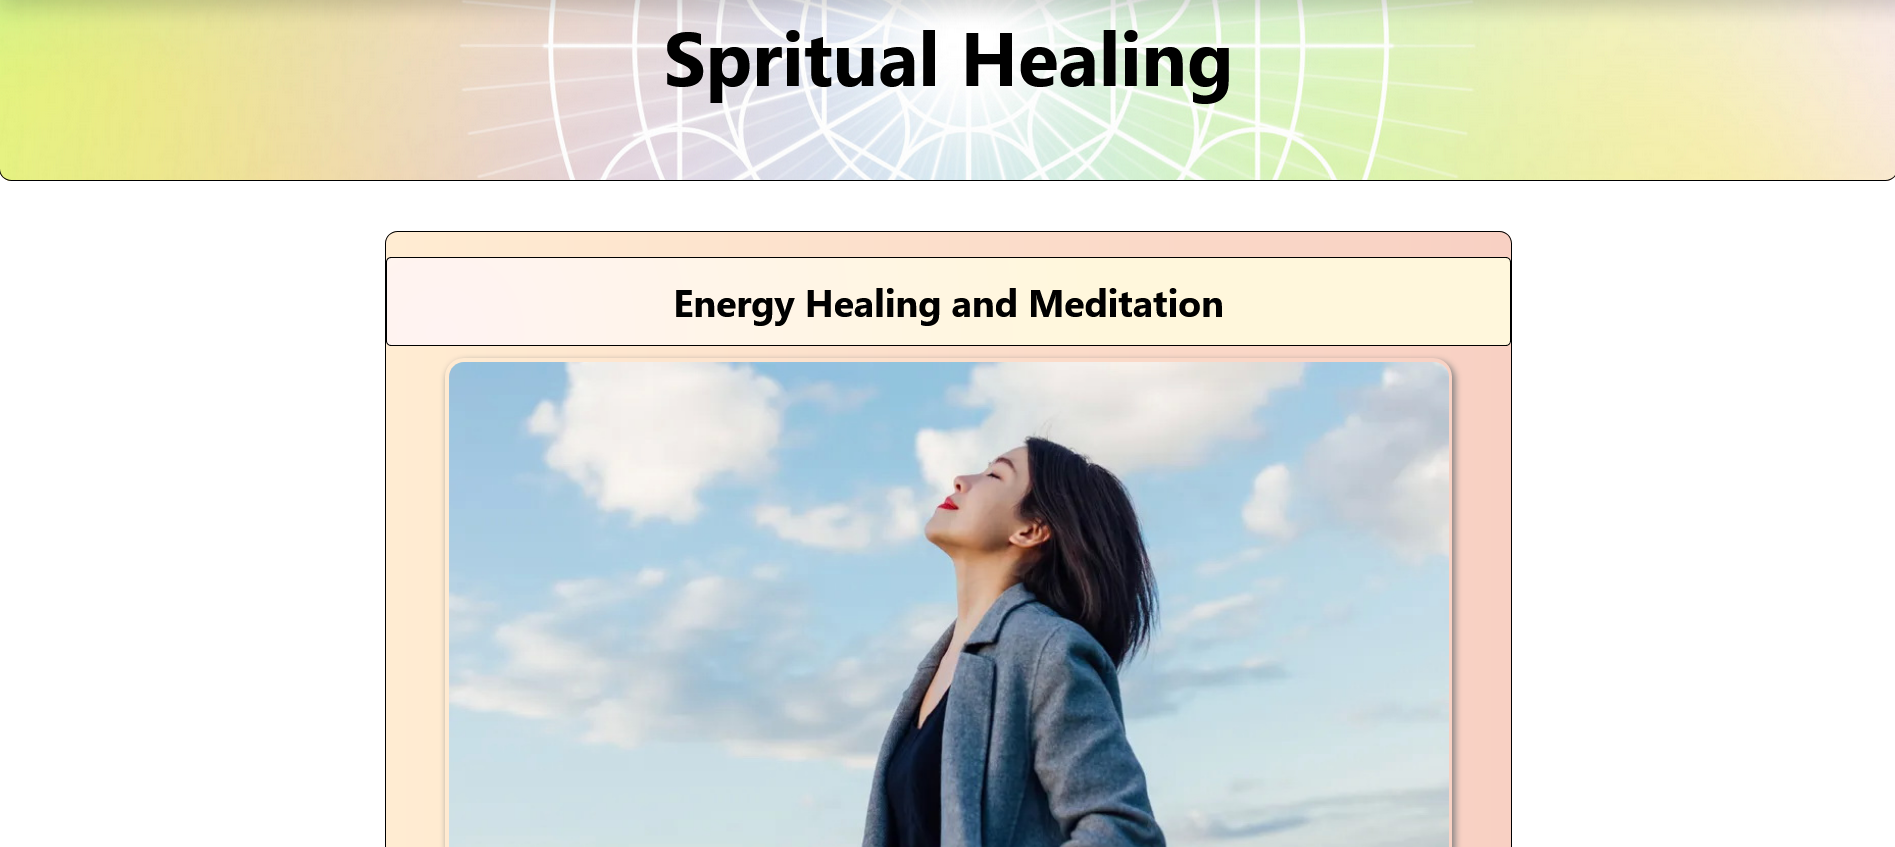
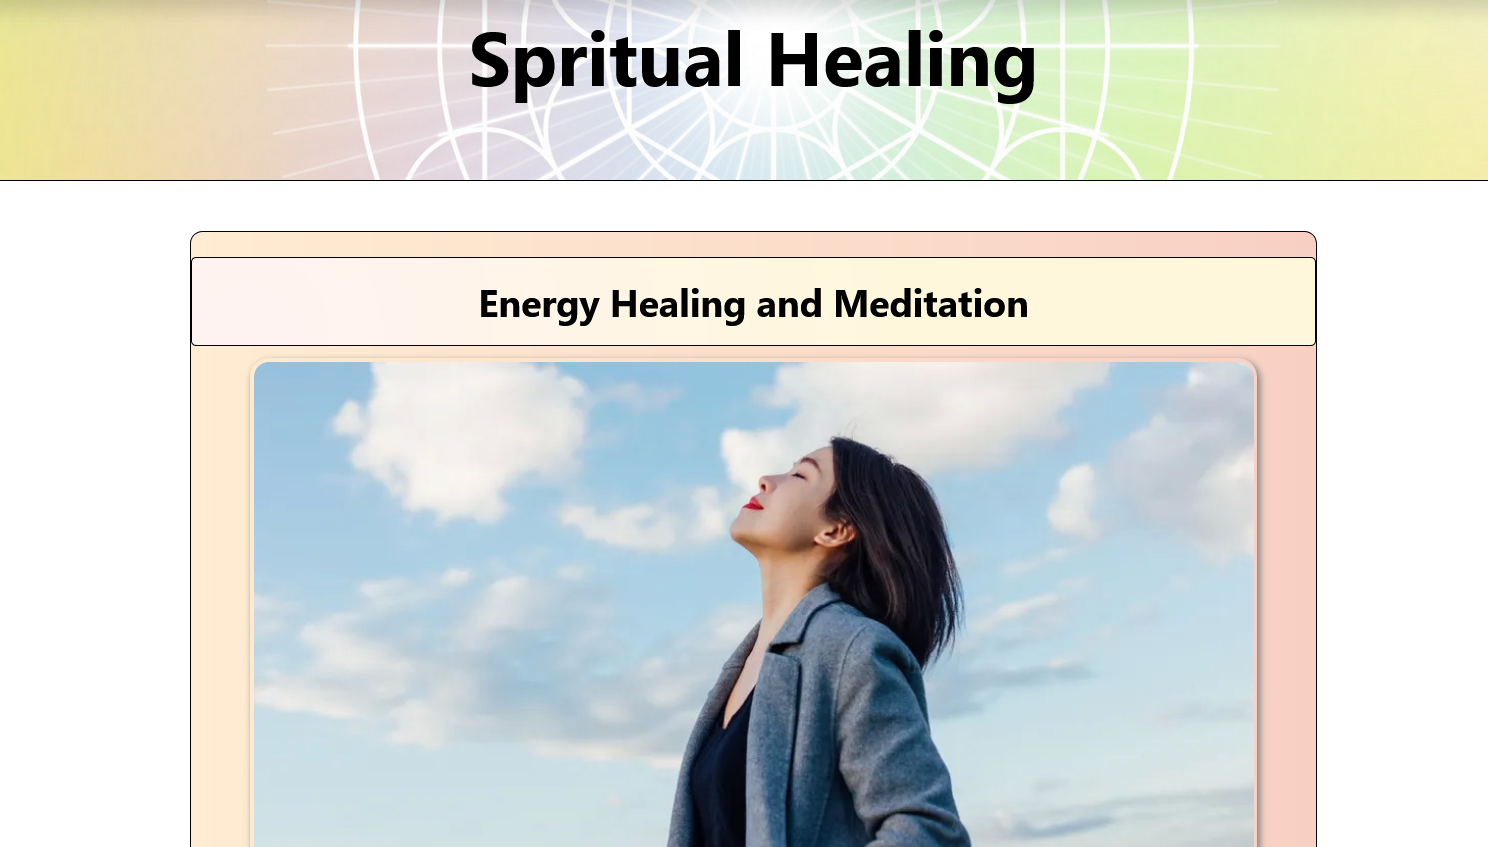
Added about section

diff --git a/index.html b/index.html
@@ -43,30 +43,92 @@
       <div class="about-section block">
         <h3 class="heading-titles">About</h3>
         <h2>Who is Niloofar?</h2>
-        <p>The info comes here</p>
+
+        <div class="container">
+          <div class="row">
+            <div class="col mt-5 text-muted">
+              <div class="project-description">
+                Hi! I am Niloofar and I am a newbie Front-End Developer. I'm
+                very passionate about bringing both the technical and visual
+                aspects of digital products to life. My interest in web
+                development started back in 2022 when I started to take SheCodes
+                classes in April. After taking the first courses I happily
+                jumped into the wonderful world of coding. Every step on the way
+                of learning and mastering new skills was exciting for me. As an
+                aspiring front-end developer I am excited to keep learning and
+                enhancing my skills to create well-designed and responsive web
+                pages and applications.
+                <br />
+                <br />
+                I have a MS in Astrophysics from La Sapienza University of Rome.
+                I then moved to Germany. I worked as a researcher for a time and
+                now I am working as a developer.
+                <br />
+                <a href="#" class="btn btn-branding mt-3"> View My Resume</a>
+              </div>
+            </div>
+            <div class="col mt-5">
+              <img src="" alt="" class="img-fluid" />
+            </div>
+          </div>
+        </div>
       </div>
 
       <div class="skills-section block">
         <h3 class="heading-titles">Skills and Tools</h3>
         <h2>my toolbox and things I can do</h2>
-        <p class="text-muted">
+        <p class="text-muted mt-4">
           The skills, tools and technologies I use to bring your products to
           life:
         </p>
-        <h3>Currently Working on:</h3>
-        <p></p>
-      </div>
+        <div class="container m-5">
+          <div class="row">
+            <div class="col-2">
+              <i class="fa-brands fa-html5 icons"></i>
+            </div>
+            <div class="col-2">
+              <i class="fa-brands fa-css3-alt icons"></i>
+            </div>
+            <div class="col-2">
+              <i class="fa-brands fa-js icons"></i>
+            </div>
+            <div class="col-2">
+              <i class="fa-brands fa-git-alt icons"></i>
+            </div>
+            <div class="col-2">
+              <i class="fa-brands fa-github icons"></i>
+            </div>
+            <div class="col-2">
+              <i class="fa-solid fa-tablet-screen-button icons"></i>
+            </div>
+          </div>
+          <div class="row mt-3">
+            <div class="col-2">HTML</div>
+            <div class="col-2">CSS</div>
+            <div class="col-2">Javascript</div>
 
+            <div class="col-2">Git</div>
+            <div class="col-2">Github</div>
+            <div class="col-2">Responsive Websites</div>
+          </div>
+        </div>
+
+        <h3>Currently Working on:</h3>
+        <p class="text-muted">
+          Working on improving my skills in JavaScript and React and attending
+          the pro React Shecodes workshop!
+        </p>
+      </div>
       <div class="projects-section block">
         <h3 class="heading-titles">Work</h3>
         <h2 class="mb-5">Projects I've Worked on</h2>
 
         <div class="container">
-          <div class="row mb-4">
-            <div class="col me-4">
+          <div class="row m-4">
+            <div class="col">
               <div class="project-description">
-                <h4 class="m-4">Weather App Project</h4>
-                <p class="m-4 text-muted">
+                <h4>Weather App Project</h4>
+                <p class="text-muted">
                   This is my project this is my project this is my project this
                   is my project this is my project This is my project this is my
                   project this is my project this is my project this is my
@@ -78,20 +140,20 @@
               </div>
             </div>
 
-            <div class="col">
+            <div class="col-5 d-none">
               <img
                 src="images/weather app.png"
-                class="m-4 img-fluid d-none d-lg-block"
+                class="img-fluid d-none d-lg-block"
                 alt=""
               />
             </div>
           </div>
 
-          <div class="row">
-            <div class="col me-4">
+          <div class="row mt-5 mx-4">
+            <div class="col-5 d-none">
               <img
                 src="images/meditation project.png"
-                class="m-4 img-fluid d-none d-lg-block"
+                class="img-fluid d-none d-lg-block m-4"
                 alt=""
               />
             </div>

diff --git a/styles/portfolio.css b/styles/portfolio.css
@@ -71,18 +71,32 @@ p {
   padding: 12px 20px;
 }
 
-@media (max-width: 960px) {
+.icons {
+  font-size: 60px;
+}
+
+@media (max-width: 900px) {
+  body {
+    margin: 30px;
+  }
+
   h1 {
     font-size: 70px;
   }
   h2 {
     font-size: 30px;
   }
+  h3 {
+    margin-top: 60px;
+  }
   .project-description {
     padding: 0;
     text-align: center;
   }
   .block {
-    margin: 20px;
+    margin: 10px;
+  }
+  .icons {
+    font-size: 30px;
   }
 }
